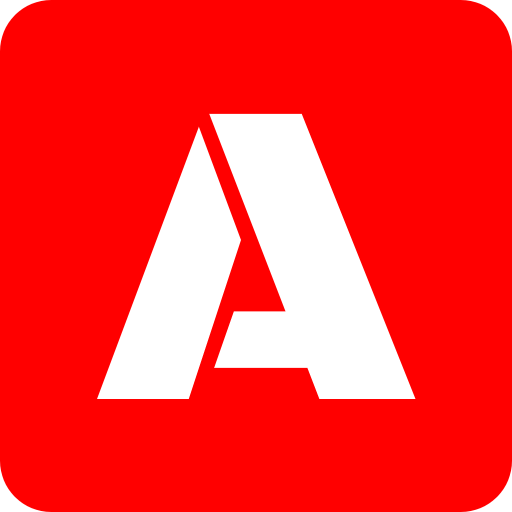
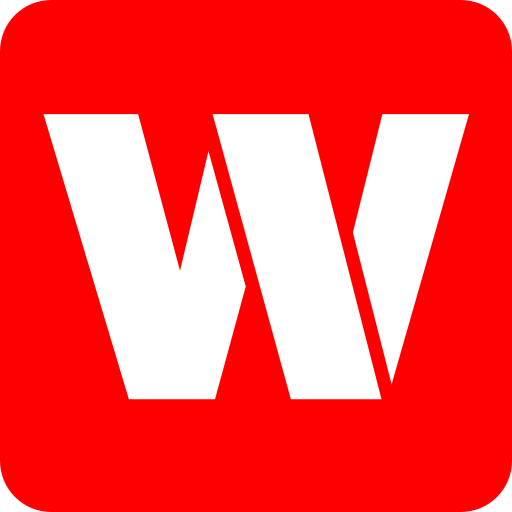
avp -> wufc

Changed region(s): [[0.0625, 0.2188, 0.625, 0.7812], [0.625, 0.2188, 0.9375, 0.7812]]

diff --git a/content/home/hero.md b/content/home/hero.md
@@ -5,7 +5,7 @@ headless = true  # This file represents a page section.
 active = true  # Activate this widget? true/false
 weight = 10  # Order that this section will appear.
 
-title = "avp42"
+title = "wufc"
 
 [design]
   columns = "1"

diff --git a/content/authors/admin/_index.md b/content/authors/admin/_index.md
@@ -1,6 +1,6 @@
 ---
 # Display name
-title: avp42
+title: wufc
 
 # Is this the primary user of the site?
 superuser: true
